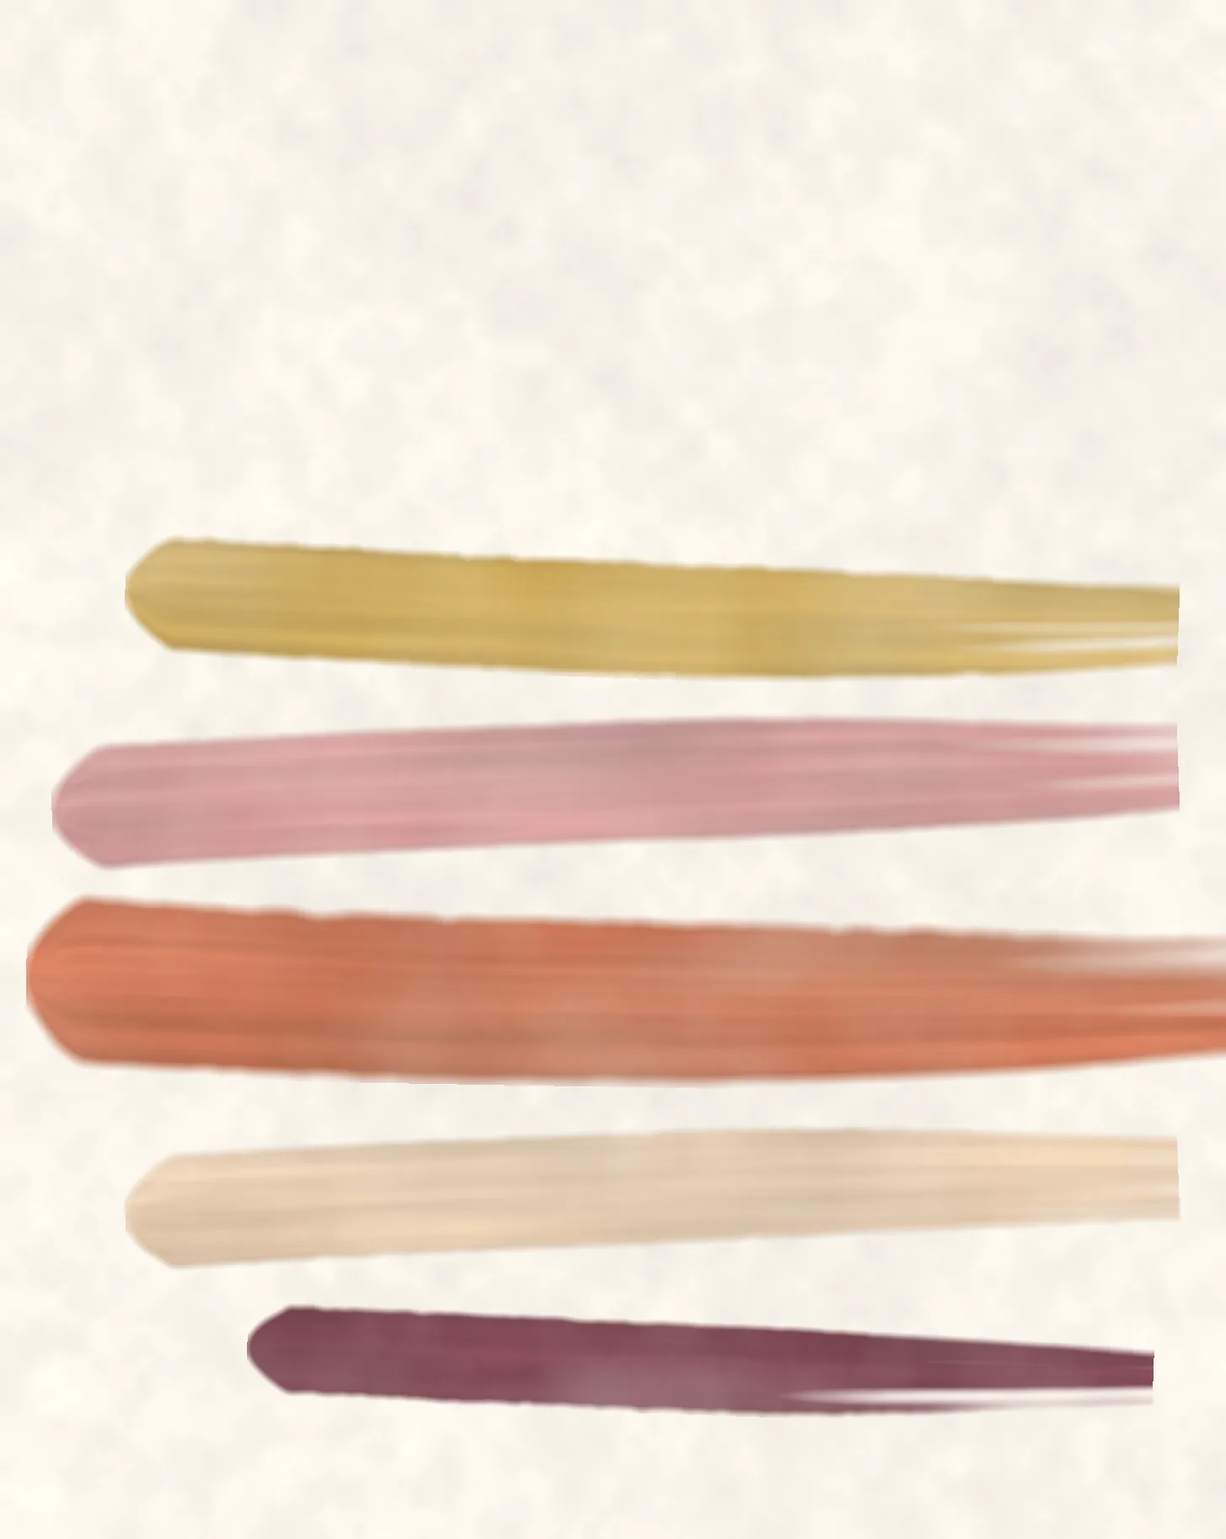
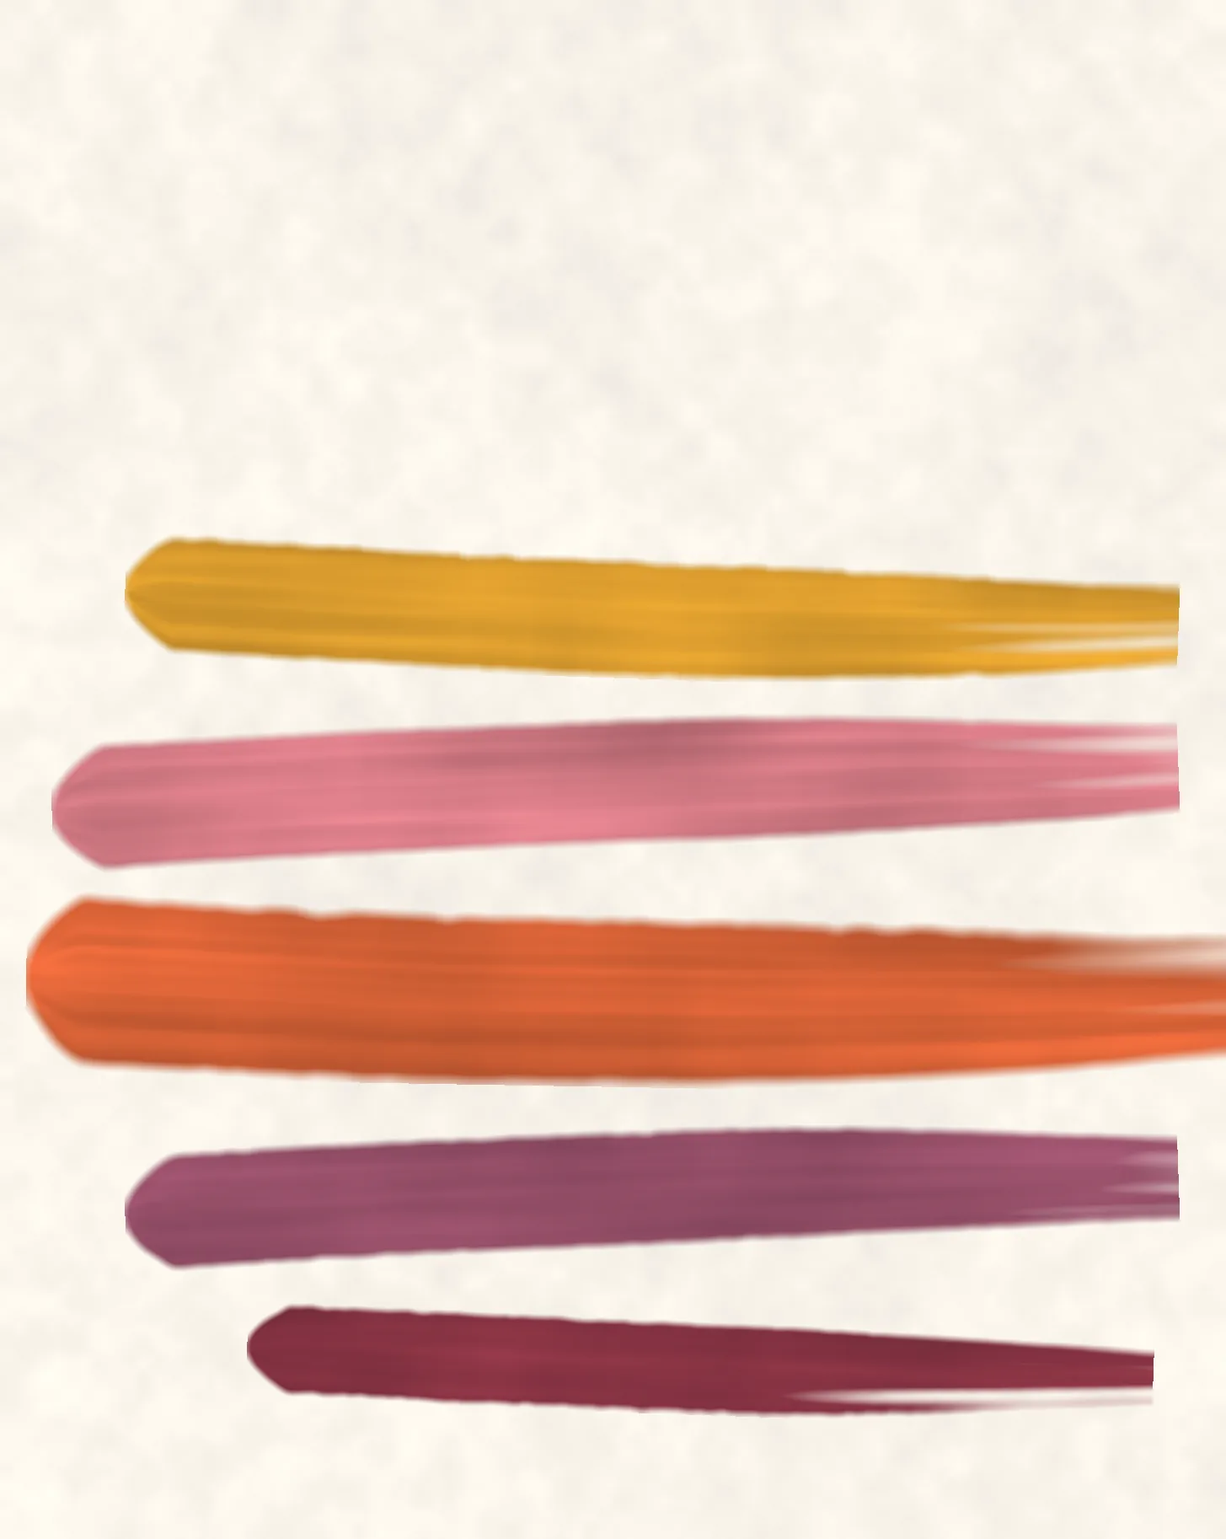
Make the stats band a paint stroke and bring the pigment back
Two corrections to the previous pass.

The stats row was a rounded card with a shadow - interface dropped on top of
the artwork rather than part of it. It is now a paint stroke like every
other one in the hero: same rounded ends, same matte texture, laid down
solid in a warm tan from the palette, with the dividing hairlines between
the three stats removed for the same reason. It is generated at two aspect
ratios because the row is roughly 8:1 on desktop and 3:1 on mobile, and
stretching one asset across that range visibly smears the texture. The row
keeps its own ground, so its legibility still does not depend on what is
painted behind it - a constant 8.72:1.

The colour had been over-corrected into pastel. The cause was mostly
mechanical rather than a palette choice: the previous pass carried texture
in the ALPHA channel, and thinning alpha over a light canvas lets the cream
read through and drains the pigment. Opacity modulation is now shallow and
the worked, pressed character is carried in the colour through the body
instead, so strokes stay opaque and therefore rich while still looking
hand-laid. The warm-grey mix is down from 12% to 3%. Matte still comes from
the shading - no specular rim - not from desaturating the colour.

Palette to match: mustard gold #d2952a, dusty rose #c4707a, terracotta
#c0562f, warm plum #8e4a63, burgundy #7e2f3e.

The veil is pulled back hard as a consequence. With the row carrying its own
[…]

diff --git a/public/assets/css/main.css b/public/assets/css/main.css
@@ -4154,12 +4154,10 @@ a.card:hover { box-shadow: 0 14px 34px rgba(15, 50, 56, 0.12); }
      the text wherever it actually is. */
   --hero-veil-left: max(24px, calc(50% - 590px));
   background: linear-gradient(100deg,
-    rgba(var(--hero-canvas-rgb), 0.94) 0px,
-    rgba(var(--hero-canvas-rgb), 0.90) calc(var(--hero-veil-left) + 520px),
-    rgba(var(--hero-canvas-rgb), 0.70) calc(var(--hero-veil-left) + 700px),
-    rgba(var(--hero-canvas-rgb), 0.26) calc(var(--hero-veil-left) + 820px),
-    rgba(var(--hero-canvas-rgb), 0.04) calc(var(--hero-veil-left) + 920px),
-    rgba(var(--hero-canvas-rgb), 0) calc(var(--hero-veil-left) + 1000px)) !important;
+    rgba(var(--hero-canvas-rgb), 0.85) 0px,
+    rgba(var(--hero-canvas-rgb), 0.62) calc(var(--hero-veil-left) + 470px),
+    rgba(var(--hero-canvas-rgb), 0.14) calc(var(--hero-veil-left) + 610px),
+    rgba(var(--hero-canvas-rgb), 0) calc(var(--hero-veil-left) + 720px)) !important;
 }
 @media (max-width: 1024px) {
   /* Mobile and tablet stack text above the strokes, so the veil runs
@@ -4222,30 +4220,40 @@ a.card:hover { box-shadow: 0 14px 34px rgba(15, 50, 56, 0.12); }
 /* -------------------------------------------------------------------------
    Hero stats band
    -------------------------------------------------------------------------
-   The trust row gets its own solid cream band rather than relying on the
-   veil. The veil is a gradient, so how much cover the row got depended on
-   where it happened to sit relative to the strokes — fine at one width,
-   marginal at another, and it would change again on any future palette or
-   composition edit. A flat band makes the row's legibility independent of
-   what is painted behind it.
+   The trust row sits on a paint stroke, not a card. It needs its own solid
+   ground — relying on the veil meant the row's legibility depended on where
+   it happened to fall relative to the strokes, which varied by width and
+   would shift again on any composition change — but a rounded rectangle
+   with a shadow reads as UI dropped on top of the artwork. So the ground is
+   a stroke like every other one in the hero: same rounded ends, same matte
+   texture, laid down solid and in a warm tan from the same palette.
 
-   The band spans the row and nothing else: .hero-trust-inline is exactly as
-   wide as the hero text column, so no full-bleed treatment is involved and
-   the strokes either side of the row are untouched. Colour comes from the
-   same --hero-canvas-rgb triplet as the canvas and the veil.
+   The asset is generated at two aspect ratios (see tools/paint/generate.py)
+   because the row is roughly 8:1 on desktop and 3:1 on mobile; stretching
+   one stroke across that range smears its texture visibly. Sized with
+   100% 100% so the stroke spans exactly the row and nothing else —
+   .hero-trust-inline is as wide as the hero text column, so the strokes
+   either side of it are untouched.
+
+   The dividing rules are dropped with the card: hairlines between the three
+   stats are the other thing that read as interface rather than paint.
    ------------------------------------------------------------------------- */
 .page-home .hero-stack--split .hero-trust-inline,
 .page-lagos-rs .hero-stack--split .hero-trust-inline {
-  background: rgb(var(--hero-canvas-rgb));
-  border-radius: 14px;
-  border-top-color: rgba(58, 36, 26, 0.14);
-  padding: 14px 20px 15px;
-  box-shadow: 0 1px 0 rgba(58, 36, 26, 0.05);
+  background: url("/assets/images/stats-swatch-wide.png") center / 100% 100% no-repeat;
+  border-top: none;
+  border-radius: 0;
+  box-shadow: none;
+  padding: 18px 30px 20px;
+}
+.page-home .hero-stack--split .hero-trust-inline .stat,
+.page-lagos-rs .hero-stack--split .hero-trust-inline .stat {
+  border-right: none;
 }
 @media (max-width: 1024px) {
   .page-home .hero-stack--split .hero-trust-inline,
   .page-lagos-rs .hero-stack--split .hero-trust-inline {
-    padding: 12px 14px 13px;
-    border-radius: 12px;
+    background-image: url("/assets/images/stats-swatch-tall.png");
+    padding: 18px 18px 20px;
   }
 }

diff --git a/src/assets/css/main.css b/src/assets/css/main.css
@@ -4154,12 +4154,10 @@ a.card:hover { box-shadow: 0 14px 34px rgba(15, 50, 56, 0.12); }
      the text wherever it actually is. */
   --hero-veil-left: max(24px, calc(50% - 590px));
   background: linear-gradient(100deg,
-    rgba(var(--hero-canvas-rgb), 0.94) 0px,
-    rgba(var(--hero-canvas-rgb), 0.90) calc(var(--hero-veil-left) + 520px),
-    rgba(var(--hero-canvas-rgb), 0.70) calc(var(--hero-veil-left) + 700px),
-    rgba(var(--hero-canvas-rgb), 0.26) calc(var(--hero-veil-left) + 820px),
-    rgba(var(--hero-canvas-rgb), 0.04) calc(var(--hero-veil-left) + 920px),
-    rgba(var(--hero-canvas-rgb), 0) calc(var(--hero-veil-left) + 1000px)) !important;
+    rgba(var(--hero-canvas-rgb), 0.85) 0px,
+    rgba(var(--hero-canvas-rgb), 0.62) calc(var(--hero-veil-left) + 470px),
+    rgba(var(--hero-canvas-rgb), 0.14) calc(var(--hero-veil-left) + 610px),
+    rgba(var(--hero-canvas-rgb), 0) calc(var(--hero-veil-left) + 720px)) !important;
 }
 @media (max-width: 1024px) {
   /* Mobile and tablet stack text above the strokes, so the veil runs
@@ -4222,30 +4220,40 @@ a.card:hover { box-shadow: 0 14px 34px rgba(15, 50, 56, 0.12); }
 /* -------------------------------------------------------------------------
    Hero stats band
    -------------------------------------------------------------------------
-   The trust row gets its own solid cream band rather than relying on the
-   veil. The veil is a gradient, so how much cover the row got depended on
-   where it happened to sit relative to the strokes — fine at one width,
-   marginal at another, and it would change again on any future palette or
-   composition edit. A flat band makes the row's legibility independent of
-   what is painted behind it.
+   The trust row sits on a paint stroke, not a card. It needs its own solid
+   ground — relying on the veil meant the row's legibility depended on where
+   it happened to fall relative to the strokes, which varied by width and
+   would shift again on any composition change — but a rounded rectangle
+   with a shadow reads as UI dropped on top of the artwork. So the ground is
+   a stroke like every other one in the hero: same rounded ends, same matte
+   texture, laid down solid and in a warm tan from the same palette.
 
-   The band spans the row and nothing else: .hero-trust-inline is exactly as
-   wide as the hero text column, so no full-bleed treatment is involved and
-   the strokes either side of the row are untouched. Colour comes from the
-   same --hero-canvas-rgb triplet as the canvas and the veil.
+   The asset is generated at two aspect ratios (see tools/paint/generate.py)
+   because the row is roughly 8:1 on desktop and 3:1 on mobile; stretching
+   one stroke across that range smears its texture visibly. Sized with
+   100% 100% so the stroke spans exactly the row and nothing else —
+   .hero-trust-inline is as wide as the hero text column, so the strokes
+   either side of it are untouched.
+
+   The dividing rules are dropped with the card: hairlines between the three
+   stats are the other thing that read as interface rather than paint.
    ------------------------------------------------------------------------- */
 .page-home .hero-stack--split .hero-trust-inline,
 .page-lagos-rs .hero-stack--split .hero-trust-inline {
-  background: rgb(var(--hero-canvas-rgb));
-  border-radius: 14px;
-  border-top-color: rgba(58, 36, 26, 0.14);
-  padding: 14px 20px 15px;
-  box-shadow: 0 1px 0 rgba(58, 36, 26, 0.05);
+  background: url("/assets/images/stats-swatch-wide.png") center / 100% 100% no-repeat;
+  border-top: none;
+  border-radius: 0;
+  box-shadow: none;
+  padding: 18px 30px 20px;
+}
+.page-home .hero-stack--split .hero-trust-inline .stat,
+.page-lagos-rs .hero-stack--split .hero-trust-inline .stat {
+  border-right: none;
 }
 @media (max-width: 1024px) {
   .page-home .hero-stack--split .hero-trust-inline,
   .page-lagos-rs .hero-stack--split .hero-trust-inline {
-    padding: 12px 14px 13px;
-    border-radius: 12px;
+    background-image: url("/assets/images/stats-swatch-tall.png");
+    padding: 18px 18px 20px;
   }
 }

diff --git a/tools/paint/brush.py b/tools/paint/brush.py
@@ -24,7 +24,7 @@ def _smooth1d(v, sigma):
     k = np.exp(-0.5 * (np.arange(-r, r + 1) / sigma) ** 2); k /= k.sum()
     return np.convolve(np.pad(v, r, mode='edge'), k, mode='same')[r:r + n]
 
-def stroke(w, h, colour, seed=0, arc=0.10, load=0.85, thickness=0.74):
+def stroke(w, h, colour, seed=0, arc=0.10, load=0.85, thickness=0.74, solid=False):
     rng = np.random.RandomState(seed)
     yy, xx = np.mgrid[0:h, 0:w].astype(np.float32)
     t = np.linspace(0, 1, w).astype(np.float32)
@@ -33,13 +33,18 @@ def stroke(w, h, colour, seed=0, arc=0.10, load=0.85, thickness=0.74):
     centre += _smooth1d((rng.rand(w) - 0.5) * h * 0.10, w * 0.06)
 
     # rounded where the brush is set down, tapering slightly toward the tail
-    prof = np.sqrt(np.clip(t / 0.045, 0, 1)) * (1 - 0.28 * np.clip((t - 0.55) / 0.45, 0, 1) ** 1.6)
+    prof = np.sqrt(np.clip(t / (0.020 if solid else 0.045), 0, 1))
+    if not solid:
+        prof = prof * (1 - 0.28 * np.clip((t - 0.55) / 0.45, 0, 1) ** 1.6)
+    else:
+        prof = prof * np.sqrt(np.clip((1 - t) / 0.020, 0, 1))   # rounded at both ends
     half = (h * thickness * 0.5) * prof
-    half *= 0.86 + 0.28 * _smooth1d(rng.rand(w), w * 0.05)
+    half *= (0.97 + 0.05 * _smooth1d(rng.rand(w), w * 0.05)) if solid else (0.86 + 0.28 * _smooth1d(rng.rand(w), w * 0.05))
     # high-frequency raggedness on the outer envelope — paint edges are
     # irregular at every scale, and a slowly-varying envelope reads as tape
-    ragged_t = 1 + 0.13 * _smooth1d(rng.rand(w) - 0.5, max(1.5, w * 0.004)) * 2.4
-    ragged_b = 1 + 0.13 * _smooth1d(rng.rand(w) - 0.5, max(1.5, w * 0.004)) * 2.4
+    ragged_amp = 0.04 if solid else 0.13
+    ragged_t = 1 + ragged_amp * _smooth1d(rng.rand(w) - 0.5, max(1.5, w * 0.004)) * 2.4
+    ragged_b = 1 + ragged_amp * _smooth1d(rng.rand(w) - 0.5, max(1.5, w * 0.004)) * 2.4
 
     # ---- bristle lanes ----------------------------------------------------
     lanes = max(18, int(h / 5))
@@ -54,7 +59,7 @@ def stroke(w, h, colour, seed=0, arc=0.10, load=0.85, thickness=0.74):
         band_h = np.maximum(half * (1.35 / lanes) * 2.6, 0.9)
         d = np.abs(yy - band_c[None, :]) / band_h[None, :]
         lane = np.clip(1.25 - d, 0, 1)
-        alive = np.clip(1 - (t[None, :] - lane_dry[i] * load) / 0.30, 0, 1)
+        alive = np.ones((1, w), np.float32) if solid else np.clip(1 - (t[None, :] - lane_dry[i] * load) / 0.30, 0, 1)
         alive = np.clip(alive + (lane_load[i] - 0.5) * 0.8, 0, 1)
         a = np.maximum(a, lane * alive * (0.55 + 0.65 * lane_load[i]))
     up = np.maximum(half * ragged_t, 1e-3)[None, :]
@@ -73,31 +78,40 @@ def stroke(w, h, colour, seed=0, arc=0.10, load=0.85, thickness=0.74):
     # rather than an airbrush cloud. This happens before shading so the body
     # and the edge are lit as one mass.
     a = np.asarray(Image.fromarray((a * 255).astype(np.uint8))
-                   .filter(ImageFilter.GaussianBlur(max(1.4, h * 0.032))), np.float32) / 255.0
+                   .filter(ImageFilter.GaussianBlur(max(1.4, h * (0.018 if solid else 0.032)))), np.float32) / 255.0
     a = np.clip((a - 0.11) / 0.72, 0, 1)
 
     # Broad, low-frequency density variation — where the swatch was pressed
     # thin and where the pigment pooled.
     press = _noise(max(5, w // 34), max(4, h // 7), 3, 3, rng)
     press = np.asarray(Image.fromarray((press * 255).astype(np.uint8)).resize((w, h), Image.BICUBIC), np.float32) / 255.0
-    a = np.clip(a * (0.72 + 0.46 * press), 0, 1)
-
-    # Canvas tooth showing through where the pigment was pressed thin — the
-    # difference between worked paint and an airbrushed gradient.
+    # Opacity modulation is kept deliberately shallow. Thinning the alpha
+    # over a light canvas is what drains a pigment: the cream reads through
+    # and the stroke goes pastel. The worked, pressed character comes from
+    # varying the COLOUR through the body instead (below), which keeps the
+    # stroke opaque and therefore rich while still looking hand-laid.
     tooth_n = _noise(w, h, 4, 14, rng)
-    a = np.clip(a * (0.86 + 0.20 * tooth_n), 0, 1)
+    if solid:
+        a = np.clip(a * (0.97 + 0.03 * press) * (0.98 + 0.02 * tooth_n) * 1.25, 0, 1)
+    else:
+        a = np.clip(a * (0.90 + 0.13 * press) * (0.94 + 0.08 * tooth_n) * 1.12, 0, 1)
 
     # ---- body shading -----------------------------------------------------
     # Matte, not glossy: the pigment is knocked back toward a warm grey and
     # lit only by broad, soft variation. No specular rim — a bright edge
     # highlight is what made the earlier strokes read as motion graphics.
     base = np.array(colour, np.float32)
+    # A trace of warm grey only — enough to take the plastic edge off a
+    # saturated pigment, far short of desaturating it. The previous pass
+    # mixed in 12% and that, compounded with thinned alpha, is what turned
+    # the set pastel.
     grey = float(base @ np.array([0.299, 0.587, 0.114], np.float32))
-    base = base * (1 - 0.12) + np.array([grey * 1.03, grey * 0.98, grey * 0.91], np.float32) * 0.12
+    base = base * 0.97 + np.array([grey * 1.03, grey * 0.98, grey * 0.91], np.float32) * 0.03
 
     tone = _noise(w, h, 5, 5, rng)
-    body = base[None, None, :] * (0.90 + 0.17 * tone[..., None])
-    body *= (0.94 + 0.13 * press[..., None])
+    amp = 0.09 if solid else 0.26
+    body = base[None, None, :] * ((1.0 - amp * 0.5) + amp * tone[..., None])
+    body *= (1.0 - (0.09 if not solid else 0.03)) + (0.18 if not solid else 0.06) * press[..., None]
 
     # Striations survive, but blurred and shallow — worked into the paint
     # rather than dragged across the top of it.
@@ -105,20 +119,20 @@ def stroke(w, h, colour, seed=0, arc=0.10, load=0.85, thickness=0.74):
     drag = np.asarray(Image.fromarray((drag * 255).astype(np.uint8))
                       .resize((w, h), Image.BILINEAR)
                       .filter(ImageFilter.GaussianBlur(max(1.0, h * 0.010))), np.float32) / 255.0
-    body *= (0.95 + 0.11 * drag[..., None])
+    body *= (0.95 + 0.11 * drag[..., None]) if not solid else (0.98 + 0.04 * drag[..., None])
 
     lanes_light = np.zeros((h, w), np.float32)
     for i in range(lanes):
         band_c = centre + (lane_y[i] + lane_off[i]) * half
         lanes_light += np.exp(-((yy - band_c[None, :]) ** 2) / (2 * (max(h * 0.018, 1)) ** 2)) * (lane_load[i] - 0.5)
-    body *= (1 + np.clip(lanes_light, -1, 1)[..., None] * 0.09)
+    body *= (1 + np.clip(lanes_light, -1, 1)[..., None] * (0.04 if solid else 0.12))
 
     # A single soft cross-stroke gradient stands in for form. Deliberately
     # much weaker than the old edge-gradient lighting, and with no positive
     # highlight term at all.
     blur = np.asarray(Image.fromarray((a * 255).astype(np.uint8))
                       .filter(ImageFilter.GaussianBlur(max(2.5, h * 0.06))), np.float32) / 255.0
-    body *= (0.93 + 0.09 * blur[..., None])
+    body *= (0.95 + 0.07 * blur[..., None])
 
     # Soften the pigment itself, so colour bleeds slightly across the body
     # the way worked paint does.

diff --git a/tools/paint/generate.py b/tools/paint/generate.py
@@ -30,11 +30,13 @@ CANVAS = (248, 243, 234)          # warm off-white; a shade lighter than the pag
 PALETTES = {
     # widest hue spread: two warms, a cool, a soft mid, and a dark anchor
     'studio':    [(233, 176, 31), (23, 166, 152), (242, 100, 60), (226, 138, 132), (34, 48, 63)],
-    # "Basic Canvas": the reference swatch set — one warm, dusty tonal family
-    # (mustard, blush pink, terracotta, cream/tan, burgundy) with nothing
-    # jumping out of it. Every value is deliberately low-chroma; the earlier
-    # bright magenta read as a separate colour rather than part of the set.
-    'reference': [(201, 163,  78), (201, 142, 142), (192, 107,  76), (223, 195, 166), (126,  68,  80)],
+    # "Basic Canvas": the reference swatch set — mustard gold, dusty rose,
+    # terracotta, warm plum, burgundy. One warm family with nothing jumping
+    # out of it, but rich pigment rather than pastel: these are deep,
+    # saturated values that read matte because of how they are SHADED (no
+    # specular rim, opaque body, colour-led texture), not because the colour
+    # itself has been drained.
+    'reference': [(210, 149,  42), (196, 112, 122), (192,  86,  47), (142,  74,  99), (126,  47,  62)],
     # maximum separation: four saturated hues plus near-black
     'pop':       [(242, 183, 5), (18, 168, 160), (214, 65, 126), (255, 107, 74), (46, 42, 40)],
 }
@@ -91,6 +93,18 @@ def main(name='reference'):
         div.alpha_composite(sw, (x, y))
     div.save(IMG + 'swatch-divider.png')
     print('swatches')
+
+    # Stats swatch: the band the hero trust row sits on. It is a paint stroke
+    # like everything else in the hero — same rounded ends, same matte
+    # texture — just laid down solid, so the icons and labels on top of it
+    # stay legible whatever is painted behind. Two aspect ratios rather than
+    # one stretched asset: the row is roughly 8:1 on desktop and 3:1 on
+    # mobile, and stretching a single stroke across that range visibly
+    # smears its texture.
+    TAN = (226, 201, 170)
+    stroke(1600, 200, TAN, seed=901, arc=0.015, load=1.0, solid=True).save(IMG + 'stats-swatch-wide.png')
+    stroke(900, 300, TAN, seed=907, arc=0.02, load=1.0, solid=True).save(IMG + 'stats-swatch-tall.png')
+    print('stats swatch')
 
     # Favicon: two loaded swipes on cream.
     S = 1024

diff --git a/README.md b/README.md
@@ -66,8 +66,8 @@ The `/public` folder is a complete static site — point any static host at it:
 **v4 "paint-craft"** — warm, tactile and pigment-led, replacing the navy/crimson palette inherited from the sister site. Structure, layout, grid, components, breakpoints and the measured hero budgets are unchanged; this is a visual restyle, not a rebuild.
 
 - **Page palette** — terracotta `#c25a38` (the accent; `#b85132` wherever it sits behind text, so button labels clear WCAG AA), ochre `#d9a02b`, dusty pink `#d9a08c`, deep brown `#3a241a` for text and dark surfaces, cream `#fbf4e8` as the ground.
-- **Hero palette** — "Basic Canvas": one warm, dusty tonal family on a warm off-white canvas `#f8f3ea`, with nothing jumping out of it — mustard `#c9a34e`, blush pink `#c98e8e`, terracotta `#c06b4c`, cream/tan `#dfc3a6`, burgundy `#7e4450`. Deliberately low-chroma and matte; the strokes are rendered as pressed, blended swatches rather than glossy swipes (no specular rim, softened silhouette, canvas tooth showing through where the pigment is thin). Two brighter alternates (`studio`, `pop`) ship in the generator; switching is one command and colour-only.
-- **Hero stats band** — the trust row sits on its own flat cream band rather than relying on the veil gradient, so its legibility does not depend on which stroke happens to be behind it. Band, veil and canvas all derive from one `--hero-canvas-rgb` triplet so they cannot drift apart. Set as token *values* at the top of `src/assets/css/main.css`; the token *names* are unchanged so the component CSS between them keeps resolving.
+- **Hero palette** — "Basic Canvas": one warm family on a warm off-white canvas `#f8f3ea` — mustard gold `#d2952a`, dusty rose `#c4707a`, terracotta `#c0562f`, warm plum `#8e4a63`, burgundy `#7e2f3e`. Rich, saturated pigment that reads *matte* because of how it is shaded, not because the colour has been drained: no specular rim, an opaque body, and texture carried in the colour rather than in the opacity. (Thinning alpha over a light canvas is what turns a pigment pastel — the cream reads straight through it.) Two alternates (`studio`, `pop`) ship in the generator; switching is one command and colour-only.
+- **Hero stats band** — the trust row sits on a paint stroke of its own, in a warm tan from the same palette: same rounded ends and matte texture as every other stroke, just laid down solid so the icons and labels stay legible whatever is behind. Generated at two aspect ratios (the row is ~8:1 on desktop, ~3:1 on mobile) because stretching one asset across that range smears its texture. Band, veil and canvas all derive from one `--hero-canvas-rgb` triplet so they cannot drift apart. Set as token *values* at the top of `src/assets/css/main.css`; the token *names* are unchanged so the component CSS between them keeps resolving.
 - **Type** — Fredoka (rounded display) for headlines, wordmark, buttons and labels; Nunito Sans for running text; Caveat (brush script) reserved for the wordmark's "Painter" and the hero tagline, so it reads as a signature rather than decoration. All three are self-hosted variable fonts in `src/assets/fonts` — no Google Fonts request, no third-party dependency.
 - **Wordmark** — "Algarve" in the display face, "Painter" in the script with a tapered brushstroke swiped underneath (the SVG lives in `wordmarkHtml` in `layout.js`).
 - **Everything the token swap can't express** lives in one clearly-marked `PAINT-CRAFT RESTYLE` block at the very end of `main.css` — type roles, the painted section marks, the wordmark, the trust band and the button fills. It sits last because much of the inherited stylesheet carries `!important` at high specificity.
